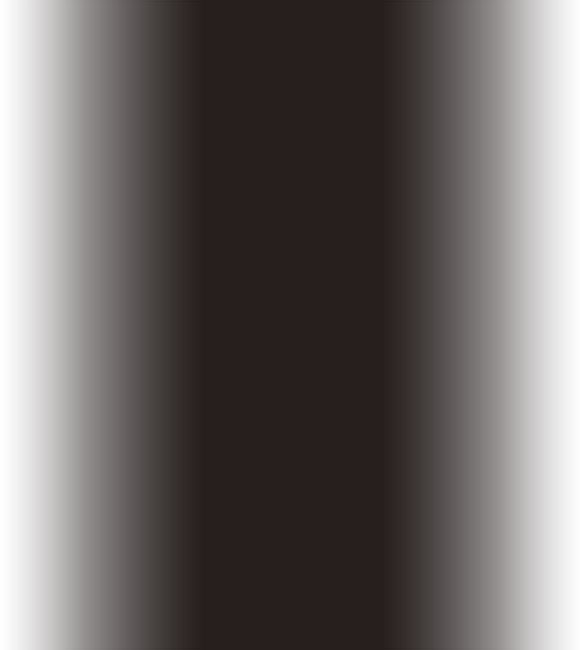
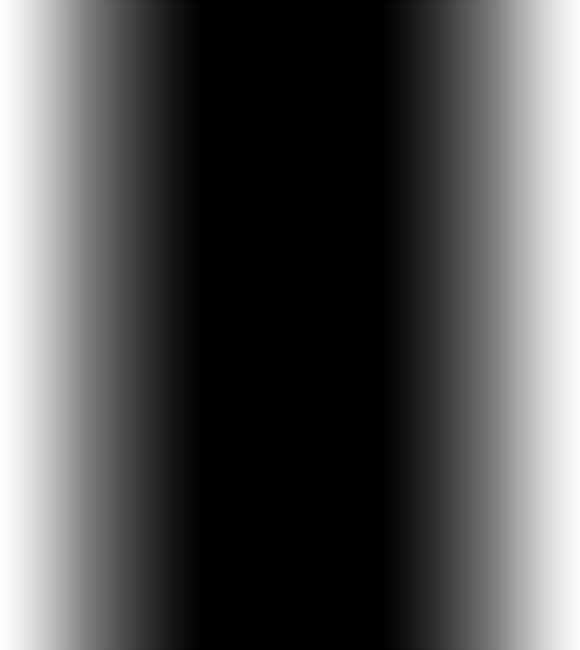
fixing flip pages

diff --git a/client/public/booklet/jquery.booklet.1.1.0.css b/client/public/booklet/jquery.booklet.1.1.0.css
@@ -1,94 +1,96 @@
 /* @Booklet
 ----------------------------------------*/
-.booklet          {width:800px; height:600px; position:relative; margin:0 auto 10px;}
-.booklet .b-page  {left:0; top:0; position:absolute; overflow:hidden; padding:0;}
-
-.booklet .b-pN  {padding:0; width:100%; height:100%;}
-.booklet .b-p0  {padding:0; width:100%; height:100%;}
-.booklet .b-p1  {padding:0; width:100%; height:100%;}
-.booklet .b-p2  {padding:0; width:100%; height:100%;}    
-.booklet .b-p3  {padding:0; width:100%; height:100%;}
-.booklet .b-p4  {padding:0; width:100%; height:100%;}
-
-
-/* Page Wrappers */
-.booklet .b-wrap       {top:0; position:absolute;}
-.booklet .b-wrap-left  {background-image:url("images/left_bg.jpg")}
-.booklet .b-wrap-right {background-image:url("images/right_bg.jpg")}
-
-.booklet .b-pN .b-wrap,
-.booklet .b-p1 .b-wrap,
-.booklet .b-p2 .b-wrap,
-.booklet .b-p3 .b-wrap,
-.booklet .b-p4 .b-wrap  {left:0;}
-.booklet .b-p0 .b-wrap  {right:0;}
-
-/* Custom Page Types */
-.booklet .b-page-blank  {padding:0; width:100%; height:100%;}
-.booklet .b-page-cover  {padding:0; width:100%; height:100%;}
-
-/* Page Numbers */
-.booklet .b-counter {bottom:10px; position:absolute; display:block; width:25px; height:20px; text-align:center; font-size:12px; padding:5px 0 0;}
-.booklet .b-wrap-left  .b-counter  {left:10px;}
-.booklet .b-wrap-right .b-counter {right:10px;}
-
-/* Page Shadows */
-.booklet .b-shadow-f  {right:0; top:0; position:absolute; opacity:0; background-image:url("images/shadow-top-forward.png"); background-repeat:repeat-y; background-position:100% 0;}
-.booklet .b-shadow-b  {left:0;  top:0; position:absolute; opacity:0; background-image:url("images/shadow-top-back.png");    background-repeat:repeat-y; background-position:0 0;}
-
-.booklet .b-p0 {background-image:url("images/shadow.png"); background-repeat:repeat-y; background-position:100% 10px;}
-.booklet .b-p3 {background-image:url("images/shadow.png"); background-repeat:repeat-y; background-position:0 10px;}
-
-/* Overlay Controls */
-.booklet .b-overlay      {top:0; position:absolute; height:100%; width:50%;}
-.booklet .b-overlay-prev {left:0;}
-.booklet .b-overlay-next {right:0;}
-
-/* Tab Controls */
-.booklet .b-tab        {background:#261f1e; height:40px; width:100%; padding:10px 0 0; text-align:center; color:#ccc; position:absolute; font-size:11px;}
-.booklet .b-tab-prev   {left:0;}
-.booklet .b-tab-next   {right:0;}
-.booklet .b-tab:hover  {background:#aaa; color:#261f1e;}	
-
-/* Arrow Controls */
-.booklet .b-arrow          {display:block; position:absolute; text-indent:-9999px; top:0; height:100%; width:74px;}
-.booklet .b-arrow div      {display:none; text-indent:-9999px; height:170px; width:74px; position:absolute; left:0; top:25%;}
-.booklet .b-arrow-next     {right:-80px;}
-.booklet .b-arrow-prev     {left:-80px;}
-.booklet .b-arrow-next div {background:url("images/arrow-next.png") no-repeat left top;}
-.booklet .b-arrow-prev div {background:url("images/arrow-prev.png") no-repeat left top;}
+	.booklet           {width:800px; height:600px; position:relative; /*background:#fff;*/ margin:0 auto 10px;}
+	.booklet .b-page  {left:0; top:0; position:absolute; overflow:auto; padding:0;}
 	
+	.booklet .b-pN  {}
+	.booklet .b-p0  {}
+	.booklet .b-p1  {}
+	.booklet .b-p2  {}    
+	.booklet .b-p3  {}
+	.booklet .b-p4  {}
+	
+	/*.booklet .b-load  {display:none;}*/
+   
+   	/* Page Wrappers */
+	.booklet .b-wrap       {top:0; position:absolute;}
+	.booklet .b-wrap-left  {background-image:url("images/left_bg.jpg");}
+	.booklet .b-wrap-right {background-image:url("images/right_bg.jpg");}
+	
+	.booklet .b-pN .b-wrap,
+	.booklet .b-p1 .b-wrap,
+	.booklet .b-p2 .b-wrap,
+	.booklet .b-p3 .b-wrap,
+	.booklet .b-p4 .b-wrap  {left:0;}
+	.booklet .b-p0 .b-wrap  {right:0;}
+	
+   	/* Custom Page Types */
+	.booklet .b-page-blank  {padding:0; width:100%; height:100%;}
+	.booklet .b-page-cover  {padding:0; width:100%; height:100%; background:#925C0E;}
+	.booklet .b-page-cover h3  {color:#fff; text-shadow:0px 1px 3px #222;}
+   
+   	/* Page Numbers */
+	.booklet .b-counter {bottom:10px; position:absolute; display:block; width:25px; height:20px; text-align:center; font-size:1px; padding:5px 0 0;}
+	.booklet .b-wrap-left  .b-counter  {left:10px;}
+	.booklet .b-wrap-right .b-counter {right:10px;}
+   
+   	/* Page Shadows */
+	.booklet .b-shadow-f  {right:0; top:0; position:absolute; opacity:0; background-image:url("images/shadow-top-forward.png"); background-repeat:repeat-y; background-position:100% 0;}
+	.booklet .b-shadow-b  {left:0;  top:0; position:absolute; opacity:0; background-image:url("images/shadow-top-back.png");    background-repeat:repeat-y; background-position:0 0;}
+	
+	.booklet .b-p0 {background-image:url("images/shadow.png"); background-repeat:repeat-y; background-position:100% 10px;}
+	.booklet .b-p3 {background-image:url("images/shadow.png"); background-repeat:repeat-y; background-position:0 10px;}
+	
+   	/* Overlay Controls */
+	.booklet .b-overlay      {top:0; position:absolute; height:100%; width:50%;}
+	.booklet .b-overlay-prev {left:0;}
+	.booklet .b-overlay-next {right:0;}
+	
+   	/* Tab Controls */
+	.booklet .b-tab        {background:#000; height:40px; width:100%; padding:10px 0 0; text-align:center; color:#ccc; position:absolute; font-size:11px;}
+	.booklet .b-tab-prev   {left:0;}
+	.booklet .b-tab-next   {right:0;}
+	.booklet .b-tab:hover  {background:#aaa; color:#000;}	
+	
+   	/* Arrow Controls */
+	.booklet .b-arrow          {display:block; position:absolute; text-indent:-9999px; top:0; height:100%; width:74px;}
+	.booklet .b-arrow div      {display:none; text-indent:-9999px; height:170px; width:74px; position:absolute; left:0; top:25%;}
+	.booklet .b-arrow-next     {right:-80px;}
+	.booklet .b-arrow-prev     {left:-80px;}
+	.booklet .b-arrow-next div {background:url("images/arrow-next.png") no-repeat left top;}
+	.booklet .b-arrow-prev div {background:url("images/arrow-prev.png") no-repeat left top;}
+		
 /* @z-index fix (needed for older IE browsers)
 ----------------------------------------*/
-body              {z-index:0;}
-.b-menu           {z-index:100;}
-.b-selector       {z-index:100;}
-.booklet          {z-index:10;}
-.b-pN             {z-index:10;}
-.b-p0             {z-index:10;}
-.b-p1             {z-index:10;}
-.b-p2             {z-index:10;}
-.b-p3             {z-index:10;}
-.b-p4             {z-index:10;}
-.b-prev           {z-index:40;}
-.b-next           {z-index:40;}
-.b-counter        {z-index:40;}
-
+	body              {z-index:0;}
+    .b-menu           {z-index:100;}
+    .b-selector       {z-index:100;}
+	.booklet          {z-index:10;}
+    .b-pN             {z-index:10;}
+    .b-p0             {z-index:10;}
+    .b-p1             {z-index:10;}
+    .b-p2             {z-index:10;}
+    .b-p3             {z-index:10;}
+    .b-p4             {z-index:10;}
+    .b-prev           {z-index:40;}
+    .b-next           {z-index:40;}
+    .b-counter        {z-index:40;}
+	
 /* @Menu Items
 ----------------------------------------*/
-.b-menu {height:40px; padding:0 0 10px;}
-
-.b-selector             {height:40px; position:relative; float:right; border:none; color:#cecece; cursor:pointer;}
-.b-selector .b-current  {padding:8px 15px 12px; line-height:20px; min-width:18px; height:20px; display:block; background:#000; text-align:center;}
-.b-selector-page        {width:auto; margin-left:15px;}
-.b-selector-chapter     {width:auto;}
-
-.b-selector:hover            {color:#fff; background-position:left 0px;}
-.b-selector:hover .b-current {background-position:right 0px;}
-.b-selector ul               {overflow:hidden; margin:0; list-style:none !important; position:absolute; top:40px; right:0; padding:0 0 10px; background:#000; width:240px; font:normal 12px "Myriad Pro", Myriad, "DejaVu Sans Condensed","Liberation Sans", "Nimbus Sans L", Tahoma, Geneva, "Helvetica Neue", Helvetica, Arial, sans-serif;}
-.b-selector li               {border:none;}
-.b-selector a                {color:#cecece; height:14px; text-decoration:none; display:block; padding:5px 10px;}
-.b-selector a .b-text        {float:left; clear:none;}
-.b-selector a .b-num         {float:right; clear:none;}
-.b-selector a:hover          {color:#fff;}
+	.b-menu {height:40px; padding:0 0 10px;}
 	
+	.b-selector             {height:40px; position:relative; float:right; border:none; color:#cecece; cursor:pointer;}
+	.b-selector .b-current  {padding:8px 15px 12px; line-height:20px; min-width:18px; height:20px; display:block; background:#000; text-align:center;}
+	.b-selector-page        {width:auto; margin-left:15px;}
+	.b-selector-chapter     {width:auto;}
+	
+	.b-selector:hover            {color:#fff; background-position:left 0px;}
+	.b-selector:hover .b-current {background-position:right 0px;}
+	.b-selector ul               {overflow:hidden; margin:0; list-style:none !important; position:absolute; top:40px; right:0; padding:0 0 10px; background:#000; width:240px;}
+	.b-selector li               {border:none;}
+	.b-selector a                {color:#cecece; height:14px; text-decoration:none; display:block; padding:5px 10px;}
+	.b-selector a .b-text        {float:left; clear:none;}
+	.b-selector a .b-num         {float:right; clear:none;}
+	.b-selector a:hover          {color:#fff;}
+		

diff --git a/client/src/components/RuleBook/RuleBook.js b/client/src/components/RuleBook/RuleBook.js
@@ -13,62 +13,78 @@ const RuleBook = () => {
 			<div className="b-load">
 				<div>
 					<img src={require("../Images/1.png")}/>
-					<h1>Game Components</h1>
+					<h1>Slider Gallery</h1>
 					<p>This tutorial is about creating a creative gallery with a
 						slider for the thumbnails. The idea is to have an expanding
 						thumbnails area which opens once an album is chosen.
-						The thumbnails will scroll.</p>
+						The thumbnails will scroll to the end and move back to
+						the first image. The user can scroll through the thumbnails
+						by using the slider controls. When a thumbnail is clicked,
+						it moves to the center and the full image preview opens.</p>
+					<a href="http://tympanus.net/codrops/2010/10/07/slider-gallery/" target="_blank" className="article">Article</a>
+					<a href="http://tympanus.net/Tutorials/SliderGallery/" target="_blank" className="demo">Demo</a>
 				</div>
 				<div>
 					<img src={require("../Images/2.png")}/>
-					<h1>Set up</h1>
+					<h1>Animated Portfolio Gallery</h1>
 					<p>Today we will create an animated portfolio gallery with jQuery.
-						The gallery will contain a scroller for.</p>
+						The gallery will contain a scroller for thumbnails and a
+						content area where we will display details about the portfolio
+						item. The image can be enlarged by clicking on it, making
+						it appear as an overlay.</p>
+					<a href="http://tympanus.net/codrops/2010/11/14/animated-portfolio-gallery/" target="_blank" className="article">Article</a>
+					<a href="http://tympanus.net/Tutorials/AnimatedPortfolioGallery/" target="_blank" className="demo">Demo</a>
 				</div>
 				<div>
-					<img src={require('../Images/1.png')}/>
-					<h1>Goal</h1>
+					<img src={require("../Images/3.png")}/>
+					<h1>Annotation Overlay Effect</h1>
 					<p>Today we will create a simple overlay effect to display annotations in e.g. portfolio
-						items of a web designers portfolio.</p>
+						items of a web designers portfolio. We got the idea from the wonderful
+						portfolio of www.rareview.com where Flash is used to create the
+						effect. We will use jQuery.</p>
+					<a href="http://tympanus.net/codrops/2010/10/12/annotation-overlay-effect/" target="_blank" className="article">Article</a>
+					<a href="http://tympanus.net/Tutorials/AnnotationOverlayEffect/" target="_blank" className="demo">Demo</a>
 				</div>
 				<div>
-					<img src={require('../Images/2.png')}/>
-					<h1>Playing Game</h1>
+					<img src={require("../Images/4.png")}/>
+					<h1>Bubbleriffic Image Gallery</h1>
 					<p>In this tutorial we will create a bubbly image gallery that
 						shows your images in a unique way. The idea is to show the
-						thumbnails of albums in.</p>
+						thumbnails of albums in a rounded fashion allowing the
+						user to scroll them automatically by moving the mouse.
+						Clicking on a thumbnail will zoom in a big circle and
+						the full image which will be automatically resized to
+						fit into the screen.</p>
+					<a href="http://tympanus.net/codrops/2010/12/10/bubbleriffic-image-gallery/" target="_blank" className="article">Article</a>
+					<a href="http://tympanus.net/Tutorials/BubblerifficImageGallery/" target="_blank" className="demo">Demo</a>
 				</div>
 				<div>
 					<img src={require("../Images/5.png")}/>
-					<h1>Flight</h1>
+					<h1>Collapsing Site Navigation</h1>
 					<p>Today we will create a collapsing menu that contains vertical
 						navigation bars and a slide out content area. When hovering
-						over a menu item, an image slides.</p>
+						over a menu item, an image slides down from the top and a
+						submenu slides up from the bottom. Clicking on one of the
+						submenu items will make the whole menu collapse like a card
+						deck and the respective content area will slide out.</p>
+					<a href="http://tympanus.net/codrops/2010/09/06/collapsing-site-navigation/" target="_blank" className="article">Article</a>
+					<a href="http://tympanus.net/Tutorials/CollapsingSiteNavigation/" target="_blank" className="demo">Demo</a>
 				</div>
 				<div>
 					<img src={require("../Images/6.png")}/>
-					<h1>Trickery</h1>
+					<h1>Custom Animation Banner</h1>
 					<p>In today’s tutorial we will be creating a custom animation banner with jQuery.
 						The idea is to have different elements in a banner that will
 						animate step-wise in a custom way.</p>
-				</div>
-				<div>
-					<img src={require("../Images/6.png")}/>
-					<h1>Ending yout turn</h1>
-					<p>In today’s tutorial we will be creating a custom animation banner with jQuery.
-						The idea is to have different elements in a banner that will
-						animate step-wise in a custom way.</p>
-				</div>
-				<div>
-					<img src={require("../Images/6.png")}/>
-					<h1>Ending ythe game</h1>
-					<p>In today’s tutorial we will be creating a custom animation banner with jQuery.
-						The idea is to have different elements in a banner that will
-						animate step-wise in a custom way.</p>
+					<p>We will be using the jQuery Easing Plugin and the jQuery 2D
+						Transform Plugin to create some nifty animations.</p>
+					<a href="http://tympanus.net/codrops/2010/10/18/custom-animation-banner/" target="_blank" className="article">Article</a>
+					<a href="http://tympanus.net/Tutorials/CustomAnimationBanner/" target="_blank" className="demo">Demo</a>
 				</div>
 			</div>
 		</div>
 	</div>
+
     );
 };
 

diff --git a/client/public/booklet/basic.js b/client/public/booklet/basic.js
@@ -8,11 +8,10 @@ $(function() {
     var loaded			= 0;
     //preload all the images in the book,
     //and then call the booklet plugin
-    // console.log($mybook_images)
+
     $mybook_images.each(function(){
         var $img 	= $(this);
         var source	= $img.attr('src');
-
         $('<img/>').load(function(){
             ++loaded;
             if(loaded == cnt_images){
@@ -23,7 +22,7 @@ $(function() {
                     name:               null,                            // name of the booklet to display in the document title bar
                     width:              800,                             // container width
                     height:             500,                             // container height
-                    speed:              600,                             // speed of the transition between pages
+                    speed:              1000,                             // speed of the transition between pages
                     direction:          'LTR',                           // direction of the overall content organization, default LTR, left to right, can be RTL for languages which read right to left
                     startingPage:       0,                               // index of the first page to be displayed
                     easing:             'easeInOutQuad',                 // easing method for complete transition

diff --git a/client/src/components/RuleBook/RuleBook.css b/client/src/components/RuleBook/RuleBook.css
@@ -1,3 +1,4 @@
+
 span.reference{
 	font-family:Arial;
 	display:block;
@@ -47,16 +48,22 @@ span.reference a:hover{
 	display:block;
 	width:90%;
 	height:20px;
+	border-top:1px solid #ddd;
+	color:#222;
 	text-align:center;
 	font-size:12px;
 	padding:5px 0 0;
 	background:transparent;
+	-moz-box-shadow:0px -1px 1px #fff;
+	-webkit-box-shadow:0px -1px 1px #fff;
+	box-shadow:0px -1px 1px #fff;
+	opacity:0.8;
 }
 .book_wrapper{
 	margin:0 auto;
 	padding-top:50px;
 	width:905px;
-	height: 100%;
+	height:100%;
 	position:relative;
 	background:transparent url(../Images/bg.png) no-repeat 9px 27px;
 }
